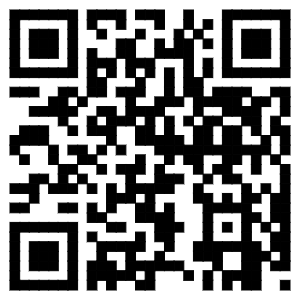
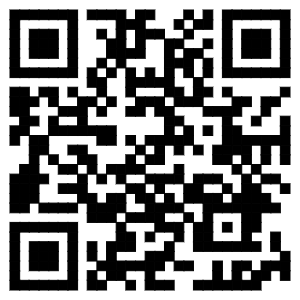
modify pdf and print

diff --git a/print.html b/print.html
@@ -98,7 +98,7 @@
         <div class="qr">
             <div class="qr-in">
                 <img src="img/qr.png">
-                <p>在线简历: <a href=seanhau.github.io/Resume/index.html" target="_blank">seanhau.github.io/Resume/index.html</a></p>
+                <p>在线简历: <a href="https://seanhau.github.io/Resume/index.html" target="_blank">https://seanhau.github.io/Resume/index.html</a></p>
             </div>
         </div>
     </div>
